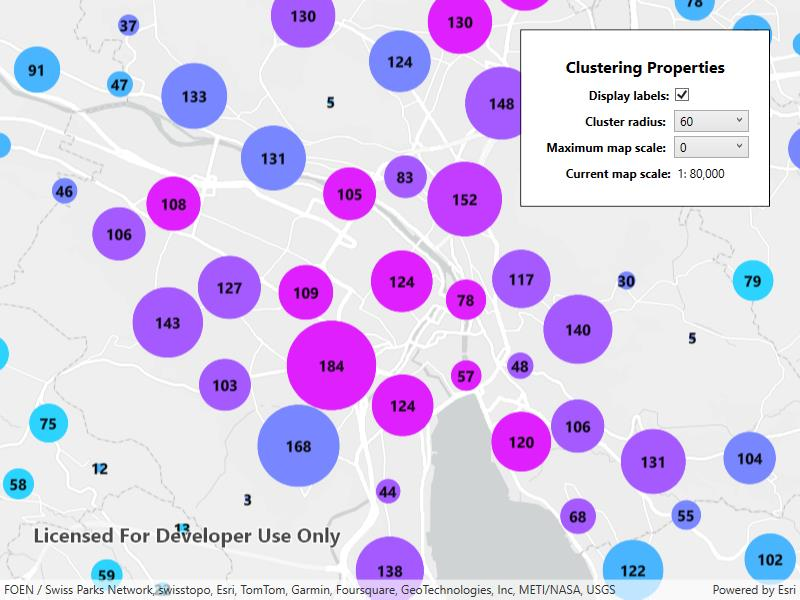
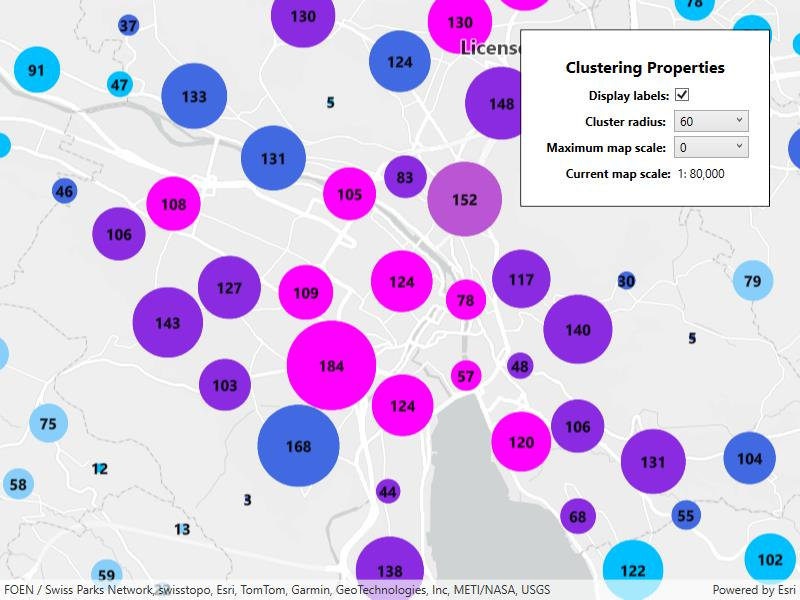
Updating matching Predefined system color for the previous RGB colors (#1599)

diff --git a/src/WinUI/ArcGIS.WinUI.Viewer/Samples/Layers/ConfigureClusters/ConfigureClusters.xaml.cs b/src/WinUI/ArcGIS.WinUI.Viewer/Samples/Layers/ConfigureClusters/ConfigureClusters.xaml.cs
@@ -82,14 +82,14 @@ namespace ArcGIS.WinUI.Samples.ConfigureClusters
             // Add a class break for each intended value range and define a symbol to display for features in that range.
             // In this case, the average building height ranges from 0 to 8 storeys.
             // For each cluster of features with a given average building height, a symbol is defined with a specified color.
-            classBreaksRenderer.ClassBreaks.Add(new ClassBreak("0", "0", 0.0, 1.0, new SimpleMarkerSymbol() { Color = System.Drawing.Color.FromArgb(4, 251, 255) }));
-            classBreaksRenderer.ClassBreaks.Add(new ClassBreak("1", "1", 1.0, 2.0, new SimpleMarkerSymbol() { Color = System.Drawing.Color.FromArgb(44, 211, 255) }));
-            classBreaksRenderer.ClassBreaks.Add(new ClassBreak("2", "2", 2.0, 3.0, new SimpleMarkerSymbol() { Color = System.Drawing.Color.FromArgb(74, 181, 255) }));
-            classBreaksRenderer.ClassBreaks.Add(new ClassBreak("3", "3", 3.0, 4.0, new SimpleMarkerSymbol() { Color = System.Drawing.Color.FromArgb(120, 135, 255) }));
-            classBreaksRenderer.ClassBreaks.Add(new ClassBreak("4", "4", 4.0, 5.0, new SimpleMarkerSymbol() { Color = System.Drawing.Color.FromArgb(165, 90, 255) }));
-            classBreaksRenderer.ClassBreaks.Add(new ClassBreak("5", "5", 5.0, 6.0, new SimpleMarkerSymbol() { Color = System.Drawing.Color.FromArgb(194, 61, 255) }));
-            classBreaksRenderer.ClassBreaks.Add(new ClassBreak("6", "6", 6.0, 7.0, new SimpleMarkerSymbol() { Color = System.Drawing.Color.FromArgb(224, 31, 255) }));
-            classBreaksRenderer.ClassBreaks.Add(new ClassBreak("7", "7", 7.0, 8.0, new SimpleMarkerSymbol() { Color = System.Drawing.Color.FromArgb(254, 1, 255) }));
+            classBreaksRenderer.ClassBreaks.Add(new ClassBreak("0", "0", 0.0, 1.0, new SimpleMarkerSymbol() { Color = System.Drawing.Color.Aqua }));
+            classBreaksRenderer.ClassBreaks.Add(new ClassBreak("1", "1", 1.0, 2.0, new SimpleMarkerSymbol() { Color = System.Drawing.Color.LightSkyBlue }));
+            classBreaksRenderer.ClassBreaks.Add(new ClassBreak("2", "2", 2.0, 3.0, new SimpleMarkerSymbol() { Color = System.Drawing.Color.DeepSkyBlue}));
+            classBreaksRenderer.ClassBreaks.Add(new ClassBreak("3", "3", 3.0, 4.0, new SimpleMarkerSymbol() { Color = System.Drawing.Color.RoyalBlue}));
+            classBreaksRenderer.ClassBreaks.Add(new ClassBreak("4", "4", 4.0, 5.0, new SimpleMarkerSymbol() { Color = System.Drawing.Color.BlueViolet }));
+            classBreaksRenderer.ClassBreaks.Add(new ClassBreak("5", "5", 5.0, 6.0, new SimpleMarkerSymbol() { Color = System.Drawing.Color.MediumOrchid }));
+            classBreaksRenderer.ClassBreaks.Add(new ClassBreak("6", "6", 6.0, 7.0, new SimpleMarkerSymbol() { Color = System.Drawing.Color.Magenta }));
+            classBreaksRenderer.ClassBreaks.Add(new ClassBreak("7", "7", 7.0, 8.0, new SimpleMarkerSymbol() { Color = System.Drawing.Color.Fuchsia }));
 
             // Define a default symbol to use for features that do not fall within any of the ranges defined by the class breaks.
             classBreaksRenderer.DefaultSymbol = new SimpleMarkerSymbol() { Color = System.Drawing.Color.Pink };

diff --git a/src/WPF/WPF.Viewer/Samples/Layers/ConfigureClusters/ConfigureClusters.xaml.cs b/src/WPF/WPF.Viewer/Samples/Layers/ConfigureClusters/ConfigureClusters.xaml.cs
@@ -75,14 +75,14 @@ namespace ArcGIS.WPF.Samples.ConfigureClusters
             // Add a class break for each intended value range and define a symbol to display for features in that range.
             // In this case, the average building height ranges from 0 to 8 storeys.
             // For each cluster of features with a given average building height, a symbol is defined with a specified color.
-            classBreaksRenderer.ClassBreaks.Add(new ClassBreak("0", "0", 0.0, 1.0, new SimpleMarkerSymbol() { Color = System.Drawing.Color.FromArgb(4, 251, 255) }));
-            classBreaksRenderer.ClassBreaks.Add(new ClassBreak("1", "1", 1.0, 2.0, new SimpleMarkerSymbol() { Color = System.Drawing.Color.FromArgb(44, 211, 255) }));
-            classBreaksRenderer.ClassBreaks.Add(new ClassBreak("2", "2", 2.0, 3.0, new SimpleMarkerSymbol() { Color = System.Drawing.Color.FromArgb(74, 181, 255) }));
-            classBreaksRenderer.ClassBreaks.Add(new ClassBreak("3", "3", 3.0, 4.0, new SimpleMarkerSymbol() { Color = System.Drawing.Color.FromArgb(120, 135, 255) }));
-            classBreaksRenderer.ClassBreaks.Add(new ClassBreak("4", "4", 4.0, 5.0, new SimpleMarkerSymbol() { Color = System.Drawing.Color.FromArgb(165, 90, 255) }));
-            classBreaksRenderer.ClassBreaks.Add(new ClassBreak("5", "5", 5.0, 6.0, new SimpleMarkerSymbol() { Color = System.Drawing.Color.FromArgb(194, 61, 255) }));
-            classBreaksRenderer.ClassBreaks.Add(new ClassBreak("6", "6", 6.0, 7.0, new SimpleMarkerSymbol() { Color = System.Drawing.Color.FromArgb(224, 31, 255) }));
-            classBreaksRenderer.ClassBreaks.Add(new ClassBreak("7", "7", 7.0, 8.0, new SimpleMarkerSymbol() { Color = System.Drawing.Color.FromArgb(254, 1, 255) }));
+            classBreaksRenderer.ClassBreaks.Add(new ClassBreak("0", "0", 0.0, 1.0, new SimpleMarkerSymbol() { Color = System.Drawing.Color.Aqua }));
+            classBreaksRenderer.ClassBreaks.Add(new ClassBreak("1", "1", 1.0, 2.0, new SimpleMarkerSymbol() { Color = System.Drawing.Color.LightSkyBlue }));
+            classBreaksRenderer.ClassBreaks.Add(new ClassBreak("2", "2", 2.0, 3.0, new SimpleMarkerSymbol() { Color = System.Drawing.Color.DeepSkyBlue}));
+            classBreaksRenderer.ClassBreaks.Add(new ClassBreak("3", "3", 3.0, 4.0, new SimpleMarkerSymbol() { Color = System.Drawing.Color.RoyalBlue}));
+            classBreaksRenderer.ClassBreaks.Add(new ClassBreak("4", "4", 4.0, 5.0, new SimpleMarkerSymbol() { Color = System.Drawing.Color.BlueViolet }));
+            classBreaksRenderer.ClassBreaks.Add(new ClassBreak("5", "5", 5.0, 6.0, new SimpleMarkerSymbol() { Color = System.Drawing.Color.MediumOrchid }));
+            classBreaksRenderer.ClassBreaks.Add(new ClassBreak("6", "6", 6.0, 7.0, new SimpleMarkerSymbol() { Color = System.Drawing.Color.Magenta }));
+            classBreaksRenderer.ClassBreaks.Add(new ClassBreak("7", "7", 7.0, 8.0, new SimpleMarkerSymbol() { Color = System.Drawing.Color.Fuchsia }));
 
             // Define a default symbol to use for features that do not fall within any of the ranges defined by the class breaks.
             classBreaksRenderer.DefaultSymbol = new SimpleMarkerSymbol() { Color = System.Drawing.Color.Pink };

diff --git a/src/MAUI/Maui.Samples/Samples/Layers/ConfigureClusters/ConfigureClusters.xaml.cs b/src/MAUI/Maui.Samples/Samples/Layers/ConfigureClusters/ConfigureClusters.xaml.cs
@@ -80,14 +80,14 @@ namespace ArcGIS.Samples.ConfigureClusters
             // Add a class break for each intended value range and define a symbol to display for features in that range.
             // In this case, the average building height ranges from 0 to 8 storeys.
             // For each cluster of features with a given average building height, a symbol is defined with a specified color.
-            classBreaksRenderer.ClassBreaks.Add(new ClassBreak("0", "0", 0.0, 1.0, new SimpleMarkerSymbol() { Color = System.Drawing.Color.FromArgb(4, 251, 255) }));
-            classBreaksRenderer.ClassBreaks.Add(new ClassBreak("1", "1", 1.0, 2.0, new SimpleMarkerSymbol() { Color = System.Drawing.Color.FromArgb(44, 211, 255) }));
-            classBreaksRenderer.ClassBreaks.Add(new ClassBreak("2", "2", 2.0, 3.0, new SimpleMarkerSymbol() { Color = System.Drawing.Color.FromArgb(74, 181, 255) }));
-            classBreaksRenderer.ClassBreaks.Add(new ClassBreak("3", "3", 3.0, 4.0, new SimpleMarkerSymbol() { Color = System.Drawing.Color.FromArgb(120, 135, 255) }));
-            classBreaksRenderer.ClassBreaks.Add(new ClassBreak("4", "4", 4.0, 5.0, new SimpleMarkerSymbol() { Color = System.Drawing.Color.FromArgb(165, 90, 255) }));
-            classBreaksRenderer.ClassBreaks.Add(new ClassBreak("5", "5", 5.0, 6.0, new SimpleMarkerSymbol() { Color = System.Drawing.Color.FromArgb(194, 61, 255) }));
-            classBreaksRenderer.ClassBreaks.Add(new ClassBreak("6", "6", 6.0, 7.0, new SimpleMarkerSymbol() { Color = System.Drawing.Color.FromArgb(224, 31, 255) }));
-            classBreaksRenderer.ClassBreaks.Add(new ClassBreak("7", "7", 7.0, 8.0, new SimpleMarkerSymbol() { Color = System.Drawing.Color.FromArgb(254, 1, 255) }));
+            classBreaksRenderer.ClassBreaks.Add(new ClassBreak("0", "0", 0.0, 1.0, new SimpleMarkerSymbol() { Color = System.Drawing.Color.Aqua }));
+            classBreaksRenderer.ClassBreaks.Add(new ClassBreak("1", "1", 1.0, 2.0, new SimpleMarkerSymbol() { Color = System.Drawing.Color.LightSkyBlue }));
+            classBreaksRenderer.ClassBreaks.Add(new ClassBreak("2", "2", 2.0, 3.0, new SimpleMarkerSymbol() { Color = System.Drawing.Color.DeepSkyBlue}));
+            classBreaksRenderer.ClassBreaks.Add(new ClassBreak("3", "3", 3.0, 4.0, new SimpleMarkerSymbol() { Color = System.Drawing.Color.RoyalBlue}));
+            classBreaksRenderer.ClassBreaks.Add(new ClassBreak("4", "4", 4.0, 5.0, new SimpleMarkerSymbol() { Color = System.Drawing.Color.BlueViolet }));
+            classBreaksRenderer.ClassBreaks.Add(new ClassBreak("5", "5", 5.0, 6.0, new SimpleMarkerSymbol() { Color = System.Drawing.Color.MediumOrchid }));
+            classBreaksRenderer.ClassBreaks.Add(new ClassBreak("6", "6", 6.0, 7.0, new SimpleMarkerSymbol() { Color = System.Drawing.Color.Magenta }));
+            classBreaksRenderer.ClassBreaks.Add(new ClassBreak("7", "7", 7.0, 8.0, new SimpleMarkerSymbol() { Color = System.Drawing.Color.Fuchsia }));
 
             // Define a default symbol to use for features that do not fall within any of the ranges defined by the class breaks.
             classBreaksRenderer.DefaultSymbol = new SimpleMarkerSymbol() { Color = System.Drawing.Color.Pink };
